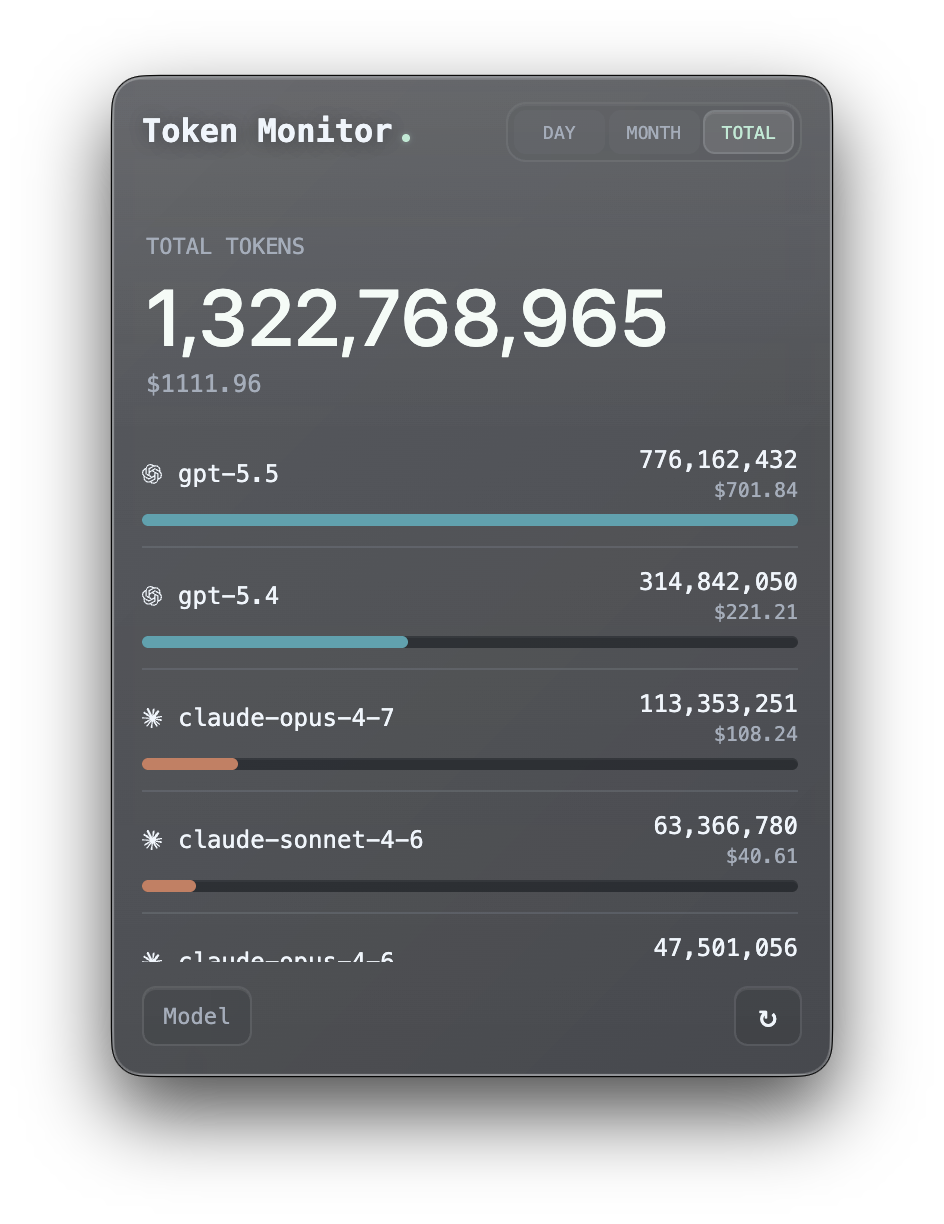
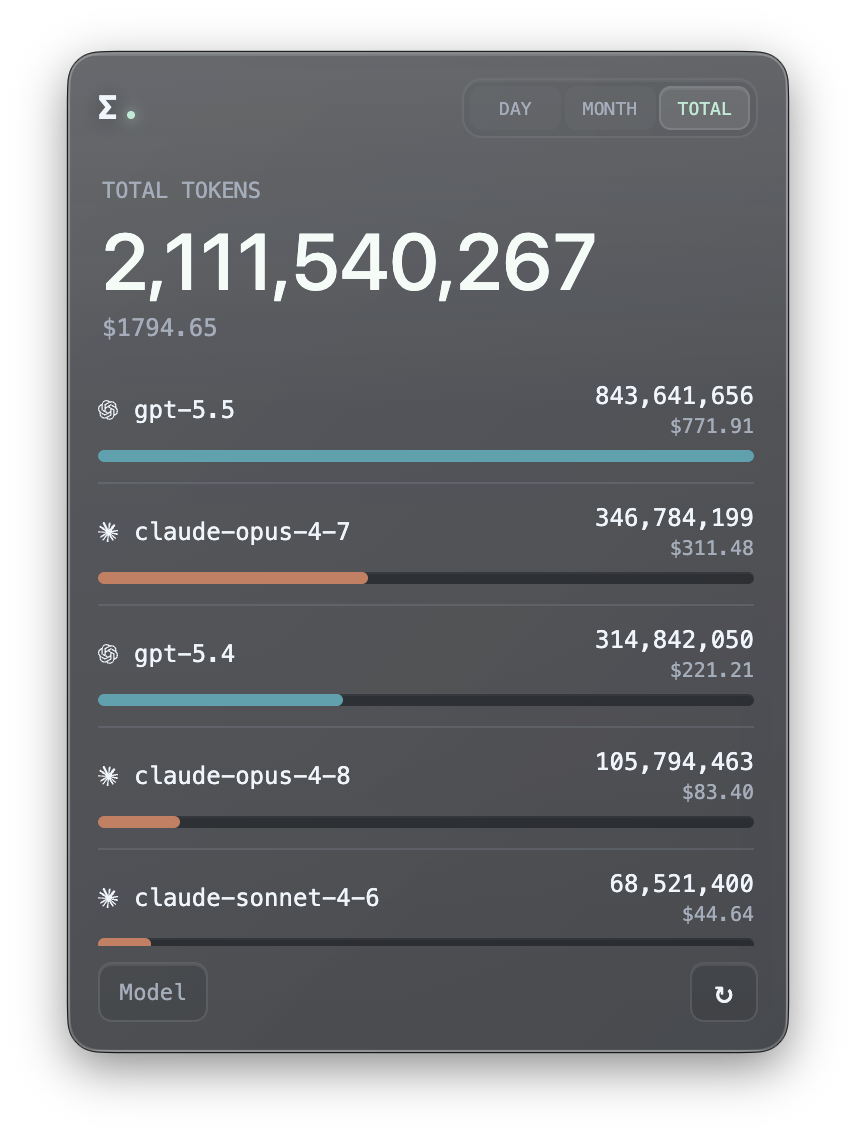
docs: update README and add session detail images

Changed region(s): [[0.0607, 0.0308, 0.9416, 0.9551], [0.2734, 0.0924, 0.4252, 0.1232]]

diff --git a/README.md b/README.md
@@ -57,23 +57,23 @@ Most usage monitors are useful on the machine they run on. Token Monitor is buil
 |:---:|:---:|:---:|
 | ![Limits View](.github/assets/limits-view.png) | ![Devices View](.github/assets/devices-view.png) | ![Models View](.github/assets/models-view.png) |
 
-| Discord Rich Presence | Menu bar mode | iOS Widget |
+| Session View | Session Details | Discord Rich Presence |
 |:---:|:---:|:---:|
-| ![Discord Rich Presence](.github/assets/discord-rpc.png) | ![Menu bar mode](.github/assets/menu-bar.png) | ![iOS Widget](.github/assets/ios-widget.png) |
+| ![Session View](.github/assets/sessions-view.png) | ![Session Details](.github/assets/session-details.png) | ![Discord Rich Presence](.github/assets/discord-rpc.png) |
 
 ## Supported Tools
 
-Token Monitor supports token usage and account-limit checks separately:
+Token Monitor supports token usage, account-limit checks, and session details separately:
 
-| Logo | Tool | Data path | Token Usage | AI Tool Limits |
-|:---:|------|-----------|:---:|:---:|
-| <img src=".github/assets/tools-icon/claude.png" width="28" alt="Claude Code" /> | Claude Code | `~/.claude/projects/`, `~/.claude/transcripts/` | ✅ | ✅ |
-| <img src=".github/assets/tools-icon/codex.png" width="28" alt="Codex" /> | Codex | `~/.codex/sessions/` | ✅ | ✅ |
-| <img src=".github/assets/tools-icon/opencode.png" width="28" alt="OpenCode" /> | OpenCode | `~/.local/share/opencode/` | ✅ | — |
-| <img src=".github/assets/tools-icon/hermes-agent.png" width="28" alt="Hermes" /> | Hermes | `$HERMES_HOME` or `~/.hermes/` | ✅ | — |
-| <img src=".github/assets/tools-icon/openclaw.png" width="28" alt="OpenClaw" /> | OpenClaw | `~/.openclaw/agents/` | ✅ | — |
-| <img src=".github/assets/tools-icon/cursor.png" width="28" alt="Cursor" /> | Cursor | `~/.config/tokscale/cursor-cache/` (kept fresh by Cursor sync) | ✅ | ✅ |
-| <img src="assets/icons/antigravity.svg" width="28" alt="Antigravity" /> | Antigravity | `~/.config/tokscale/antigravity-cache/` (kept fresh by Antigravity sync) | ✅ | ✅ |
+| Logo | Tool | Data path | Token Usage | AI Tool Limits | Session Details |
+|:---:|------|-----------|:---:|:---:|:---:|
+| <img src=".github/assets/tools-icon/claude.png" width="28" alt="Claude Code" /> | Claude Code | `~/.claude/projects/`, `~/.claude/transcripts/` | ✅ | ✅ | ✅ |
+| <img src=".github/assets/tools-icon/codex.png" width="28" alt="Codex" /> | Codex | `~/.codex/sessions/` | ✅ | ✅ | ✅ |
+| <img src=".github/assets/tools-icon/opencode.png" width="28" alt="OpenCode" /> | OpenCode | `~/.local/share/opencode/` | ✅ | — | — |
+| <img src=".github/assets/tools-icon/hermes-agent.png" width="28" alt="Hermes" /> | Hermes | `$HERMES_HOME` or `~/.hermes/` | ✅ | — | — |
+| <img src=".github/assets/tools-icon/openclaw.png" width="28" alt="OpenClaw" /> | OpenClaw | `~/.openclaw/agents/` | ✅ | — | — |
+| <img src=".github/assets/tools-icon/cursor.png" width="28" alt="Cursor" /> | Cursor | `~/.config/tokscale/cursor-cache/` (kept fresh by Cursor sync) | ✅ | ✅ | — |
+| <img src="assets/icons/antigravity.svg" width="28" alt="Antigravity" /> | Antigravity | `~/.config/tokscale/antigravity-cache/` (kept fresh by Antigravity sync) | ✅ | ✅ | — |
 
 ## Installation
 

diff --git a/README.zh-CN.md b/README.zh-CN.md
@@ -57,23 +57,23 @@
 |:---:|:---:|:---:|
 | ![用量上限视图](.github/assets/limits-view.png) | ![设备视图](.github/assets/devices-view.png) | ![模型视图](.github/assets/models-view.png) |
 
-| Discord Rich Presence | 菜单栏模式 | iOS 小部件 |
+| Session 视图 | Session 明细 | Discord Rich Presence |
 |:---:|:---:|:---:|
-| ![Discord Rich Presence](.github/assets/discord-rpc.png) | ![菜单栏模式](.github/assets/menu-bar.png) | ![iOS 小部件](.github/assets/ios-widget.png) |
+| ![Session 视图](.github/assets/sessions-view.png) | ![Session 明细](.github/assets/session-details.png) | ![Discord Rich Presence](.github/assets/discord-rpc.png) |
 
 ## 支持的工具
 
-Token Monitor 对「Token 用量」和「账户用量上限」分别支持：
+Token Monitor 对「Token 用量」「账户用量上限」和「session 明细」分别支持：
 
-| Logo | 工具 | 数据路径 | Token 用量 | AI 工具用量上限 |
-|:---:|------|-----------|:---:|:---:|
-| <img src=".github/assets/tools-icon/claude.png" width="28" alt="Claude Code" /> | Claude Code | `~/.claude/projects/`、`~/.claude/transcripts/` | ✅ | ✅ |
-| <img src=".github/assets/tools-icon/codex.png" width="28" alt="Codex" /> | Codex | `~/.codex/sessions/` | ✅ | ✅ |
-| <img src=".github/assets/tools-icon/opencode.png" width="28" alt="OpenCode" /> | OpenCode | `~/.local/share/opencode/` | ✅ | — |
-| <img src=".github/assets/tools-icon/hermes-agent.png" width="28" alt="Hermes" /> | Hermes | `$HERMES_HOME` 或 `~/.hermes/` | ✅ | — |
-| <img src=".github/assets/tools-icon/openclaw.png" width="28" alt="OpenClaw" /> | OpenClaw | `~/.openclaw/agents/` | ✅ | — |
-| <img src=".github/assets/tools-icon/cursor.png" width="28" alt="Cursor" /> | Cursor | `~/.config/tokscale/cursor-cache/`（由 Cursor 同步保持更新） | ✅ | ✅ |
-| <img src="assets/icons/antigravity.svg" width="28" alt="Antigravity" /> | Antigravity | `~/.config/tokscale/antigravity-cache/`（由 Antigravity 同步保持更新） | ✅ | ✅ |
+| Logo | 工具 | 数据路径 | Token 用量 | AI 工具用量上限 | session 明细 |
+|:---:|------|-----------|:---:|:---:|:---:|
+| <img src=".github/assets/tools-icon/claude.png" width="28" alt="Claude Code" /> | Claude Code | `~/.claude/projects/`、`~/.claude/transcripts/` | ✅ | ✅ | ✅ |
+| <img src=".github/assets/tools-icon/codex.png" width="28" alt="Codex" /> | Codex | `~/.codex/sessions/` | ✅ | ✅ | ✅ |
+| <img src=".github/assets/tools-icon/opencode.png" width="28" alt="OpenCode" /> | OpenCode | `~/.local/share/opencode/` | ✅ | — | — |
+| <img src=".github/assets/tools-icon/hermes-agent.png" width="28" alt="Hermes" /> | Hermes | `$HERMES_HOME` 或 `~/.hermes/` | ✅ | — | — |
+| <img src=".github/assets/tools-icon/openclaw.png" width="28" alt="OpenClaw" /> | OpenClaw | `~/.openclaw/agents/` | ✅ | — | — |
+| <img src=".github/assets/tools-icon/cursor.png" width="28" alt="Cursor" /> | Cursor | `~/.config/tokscale/cursor-cache/`（由 Cursor 同步保持更新） | ✅ | ✅ | — |
+| <img src="assets/icons/antigravity.svg" width="28" alt="Antigravity" /> | Antigravity | `~/.config/tokscale/antigravity-cache/`（由 Antigravity 同步保持更新） | ✅ | ✅ | — |
 
 ## 安装
 

diff --git a/README.zh-TW.md b/README.zh-TW.md
@@ -57,23 +57,23 @@
 |:---:|:---:|:---:|
 | ![用量上限檢視](.github/assets/limits-view.png) | ![裝置檢視](.github/assets/devices-view.png) | ![模型檢視](.github/assets/models-view.png) |
 
-| Discord Rich Presence | 選單列模式 | iOS 小工具 |
+| Session 檢視 | Session 明細 | Discord Rich Presence |
 |:---:|:---:|:---:|
-| ![Discord Rich Presence](.github/assets/discord-rpc.png) | ![選單列模式](.github/assets/menu-bar.png) | ![iOS 小工具](.github/assets/ios-widget.png) |
+| ![Session 檢視](.github/assets/sessions-view.png) | ![Session 明細](.github/assets/session-details.png) | ![Discord Rich Presence](.github/assets/discord-rpc.png) |
 
 ## 支援的工具
 
-Token Monitor 對「Token 用量」與「帳戶用量上限」分別支援：
+Token Monitor 對「Token 用量」「帳戶用量上限」與「session 明細」分別支援：
 
-| Logo | 工具 | 資料路徑 | Token 用量 | AI 工具用量上限 |
-|:---:|------|-----------|:---:|:---:|
-| <img src=".github/assets/tools-icon/claude.png" width="28" alt="Claude Code" /> | Claude Code | `~/.claude/projects/`、`~/.claude/transcripts/` | ✅ | ✅ |
-| <img src=".github/assets/tools-icon/codex.png" width="28" alt="Codex" /> | Codex | `~/.codex/sessions/` | ✅ | ✅ |
-| <img src=".github/assets/tools-icon/opencode.png" width="28" alt="OpenCode" /> | OpenCode | `~/.local/share/opencode/` | ✅ | — |
-| <img src=".github/assets/tools-icon/hermes-agent.png" width="28" alt="Hermes" /> | Hermes | `$HERMES_HOME` 或 `~/.hermes/` | ✅ | — |
-| <img src=".github/assets/tools-icon/openclaw.png" width="28" alt="OpenClaw" /> | OpenClaw | `~/.openclaw/agents/` | ✅ | — |
-| <img src=".github/assets/tools-icon/cursor.png" width="28" alt="Cursor" /> | Cursor | `~/.config/tokscale/cursor-cache/`（由 Cursor 同步保持更新） | ✅ | ✅ |
-| <img src="assets/icons/antigravity.svg" width="28" alt="Antigravity" /> | Antigravity | `~/.config/tokscale/antigravity-cache/`（由 Antigravity 同步保持更新） | ✅ | ✅ |
+| Logo | 工具 | 資料路徑 | Token 用量 | AI 工具用量上限 | session 明細 |
+|:---:|------|-----------|:---:|:---:|:---:|
+| <img src=".github/assets/tools-icon/claude.png" width="28" alt="Claude Code" /> | Claude Code | `~/.claude/projects/`、`~/.claude/transcripts/` | ✅ | ✅ | ✅ |
+| <img src=".github/assets/tools-icon/codex.png" width="28" alt="Codex" /> | Codex | `~/.codex/sessions/` | ✅ | ✅ | ✅ |
+| <img src=".github/assets/tools-icon/opencode.png" width="28" alt="OpenCode" /> | OpenCode | `~/.local/share/opencode/` | ✅ | — | — |
+| <img src=".github/assets/tools-icon/hermes-agent.png" width="28" alt="Hermes" /> | Hermes | `$HERMES_HOME` 或 `~/.hermes/` | ✅ | — | — |
+| <img src=".github/assets/tools-icon/openclaw.png" width="28" alt="OpenClaw" /> | OpenClaw | `~/.openclaw/agents/` | ✅ | — | — |
+| <img src=".github/assets/tools-icon/cursor.png" width="28" alt="Cursor" /> | Cursor | `~/.config/tokscale/cursor-cache/`（由 Cursor 同步保持更新） | ✅ | ✅ | — |
+| <img src="assets/icons/antigravity.svg" width="28" alt="Antigravity" /> | Antigravity | `~/.config/tokscale/antigravity-cache/`（由 Antigravity 同步保持更新） | ✅ | ✅ | — |
 
 ## 安裝
 